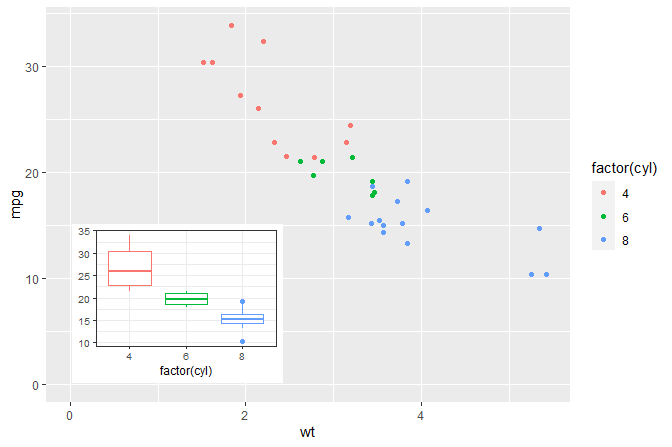
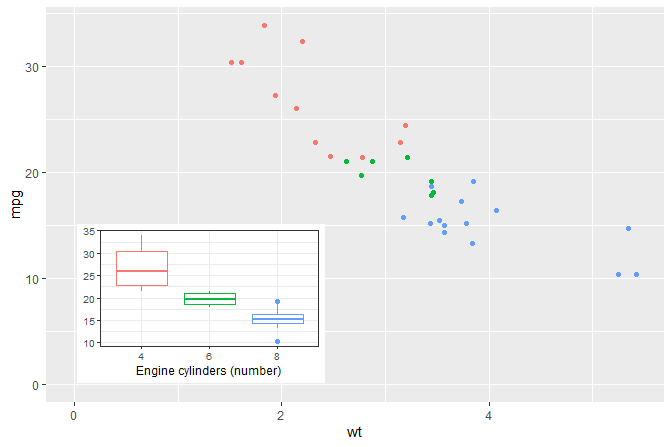
Add examples to README and edit it

diff --git a/README.md b/README.md
@@ -10,58 +10,16 @@ status](https://github.com/aphalo/ggpp/workflows/R-CMD-check/badge.svg)](https:/
 
 ## Purpose
 
-Package ‘**ggpp**’ (Grammar Extensions to ‘ggplot2’) is a set of
-extensions to R package ‘ggplot2’ (&gt;= 3.0.0). New geoms support
-insets plots, tables and grobs as insets using a syntax consistent with
-the grammar of graphics. The grammar is also extended to support native
-plot coordinates (npc) so that annotations can be easily positioned
-using new geometries and scales. New position functions facilitate the
-labelling of observations by nudging labels away or towards curves or a
-focal virtual centre. New variations of `"outward"` and `"inward"`
-justification complement the new types of nudge.
+Package ‘**ggpp**’ provides a set of building blocks that extend the
+Grammar of Graphics implemented in package ‘ggplot2’ (&gt;= 3.0.0). New
+geoms support insets in plots, marginal marks and the use of native plot
+coordinates (npc). Position functions implement new approaches to
+nudging, especially useful together with `geom_text_repel()` and
+`geom_label_repel()`.
 
 ## Extended Grammar of graphics
 
-The position of annotations within the plotting area depends in most
-cases on graphic design considerations rather than on properties such as
-the range of values in the data being plotted. In particular, the
-location within the plotting area of large annotation objects like
-model-fit summaries, location maps, plots, and tables needs usually to
-be set independently of the `x` and `y` scales, re-scaling or any
-transformations. To acknowledge this, the Grammar of Graphics is here
-expanded by supporting *x* and *y* positions expressed in ‘grid’ “npc”
-units in the range 0..1. This is implemented with new
-(pseudo-)aesthetics *npcx* and *npcy* and their corresponding scales,
-plus geometries and a revised `annotate()` function. The new aesthetics
-function in “parallel” with the *x* and *y* aesthetics used for plotting
-data. The advantage of this approach is that the syntax used for
-annotations becomes identical to that used for plotting data and that
-these geoms *cleanly* support facets in a way consistent with the rest
-of the grammar.
-
-## Aesthetics and scales
-
-Scales `scale_npcx_continuous()` and `scale_npcy_continuous()` and the
-corresponding new aesthetics `npcx` and `npcy` make it possible to add
-graphic elements and text to plots using coordinates expressed in `npc`
-units for the location within the plotting area.
-
-Scales `scale_x_logFC()` and `scale_y_logFC()` are suitable for plotting
-of log fold change data. Scales `scale_x_Pvalue()`, `scale_y_Pvalue()`,
-`scale_x_FDR()` and `scale_y_FDR()` are suitable for plotting *p*-values
-and adjusted *p*-values or false discovery rate (FDR). Default arguments
-are suitable for volcano and quadrant plots as used for transcriptomics,
-metabolomics and similar data.
-
-Scales `scale_colour_outcome()`, `scale_fill_outcome()` and
-`scale_shape_outcome()` and functions `outome2factor()`,
-`threshold2factor()`, `xy_outcomes2factor()` and
-`xy_thresholds2factor()` used together make it easy to map ternary
-numeric outputs and logical binary outcomes to color, fill and shape
-aesthetics. Default arguments are suitable for volcano, quadrant and
-other plots as used for genomics, metabolomics and similar data.
-
-## Geometries
+### Geometries
 
 Geometries `geom_table()`, `geom_plot()` and `geom_grob()` make it
 possible to add inset tables, inset plots, and arbitrary ‘grid’
@@ -83,7 +41,14 @@ and horizontal reference lines within a single layer.
 Geometry `geom_text_linked()` connects text drawn at a nudged position
 to the original position, usually that of a point being labelled.
 
-## Statistics
+### Aesthetics and scales
+
+Scales `scale_npcx_continuous()` and `scale_npcy_continuous()` and the
+corresponding new aesthetics `npcx` and `npcy` make it possible to add
+graphic elements and text to plots using coordinates expressed in `npc`
+units for the location within the plotting area.
+
+### Statistics
 
 Statistic `stat_fmt_tb()` helps with the formatting of tables to be
 plotted with `geom_table()`.
@@ -117,35 +82,75 @@ and original *x* and *y* coordinates.
 ## History
 
 This package is a “spin-off” from package ‘ggpmisc’ containing
-extensions to the grammar originally written for use wihtin ‘ggpmisc’
-but which are of general usefulness. As ‘ggpmisc’ has grown in size,
-spliting it into two packages seems the best option. Package ‘ggpmisc’
-will remain as a “loader” of the packages into which it is being split.
+extensions to the grammar originally written for use wihtin ‘ggpmisc’.
+As ‘ggpmisc’ has grown in size, spliting it into two packages seems the
+best option. For the time being, package ‘ggpmisc’ will import and
+re-export visible defintions from ‘ggpp’.
 
 ## Examples
 
 ``` r
 library(ggpp)
 library(ggrepel)
+library(dplyr)
 ```
 
-A plot with an inset plot.
+A plot with an inset table.
+
+``` r
+mtcars %>%
+  group_by(cyl) %>%
+  summarize(wt = mean(wt), mpg = mean(mpg)) %>%
+  ungroup() %>%
+  mutate(wt = sprintf("%.2f", wt),
+         mpg = sprintf("%.1f", mpg)) -> tb
+
+df <- tibble(x = 5.45, y = 34, tb = list(tb))
+
+ggplot(mtcars, aes(wt, mpg, colour = factor(cyl))) +
+  geom_point() +
+  geom_table(data = df, aes(x = x, y = y, label = tb))
+```
+
+![](man/figures/README-readme-03-1.png)<!-- -->
+
+A plot with an inset plot. With the inset plot positioned using native
+plot coordinates (npc) and using keywords insted of numerical values in
+the range 0..1 which are also accepted.
 
 ``` r
 p <- ggplot(mtcars, aes(factor(cyl), mpg, colour = factor(cyl))) +
   stat_boxplot() +
-  labs(y = NULL) +
+  labs(y = NULL, x = "Engine cylinders (number)") +
   theme_bw(9) + theme(legend.position = "none")
 
 ggplot(mtcars, aes(wt, mpg, colour = factor(cyl))) +
-  geom_point() +
+  geom_point(show.legend = FALSE) +
   annotate("plot_npc", npcx = "left", npcy = "bottom", label = p) +
   expand_limits(y = 0, x = 0)
 ```
 
-![](man/figures/README-readme-06-1.png)<!-- -->
+![](man/figures/README-readme-06-1.png)<!-- --> Marginal markings
 
-## Installation
+``` r
+data.tb <- mtcars %>%
+  group_by(cyl) %>%
+  summarise(wt = mean(wt), mpg = mean(mpg))
+
+ggplot(mtcars, aes(wt, mpg, colour = factor(cyl))) +
+  geom_x_margin_arrow(data = data.tb,
+                      aes(xintercept = wt, color = factor(cyl)),
+                      arrow.length = 0.05) +
+  geom_y_margin_arrow(data = data.tb,
+                      aes(yintercept = mpg, color = factor(cyl)),
+                      arrow.length = 0.05) +
+  annotate("plot_npc", npcx = "right", npcy = "top", 
+           label = p + theme(axis.title.y = element_blank())) +
+  expand_limits(y = 10) +
+  geom_point(show.legend = FALSE) 
+```
+
+![](man/figures/README-unnamed-chunk-1-1.png)<!-- --> \#\# Installation
 
 Installation of the most recent stable version from CRAN:
 
